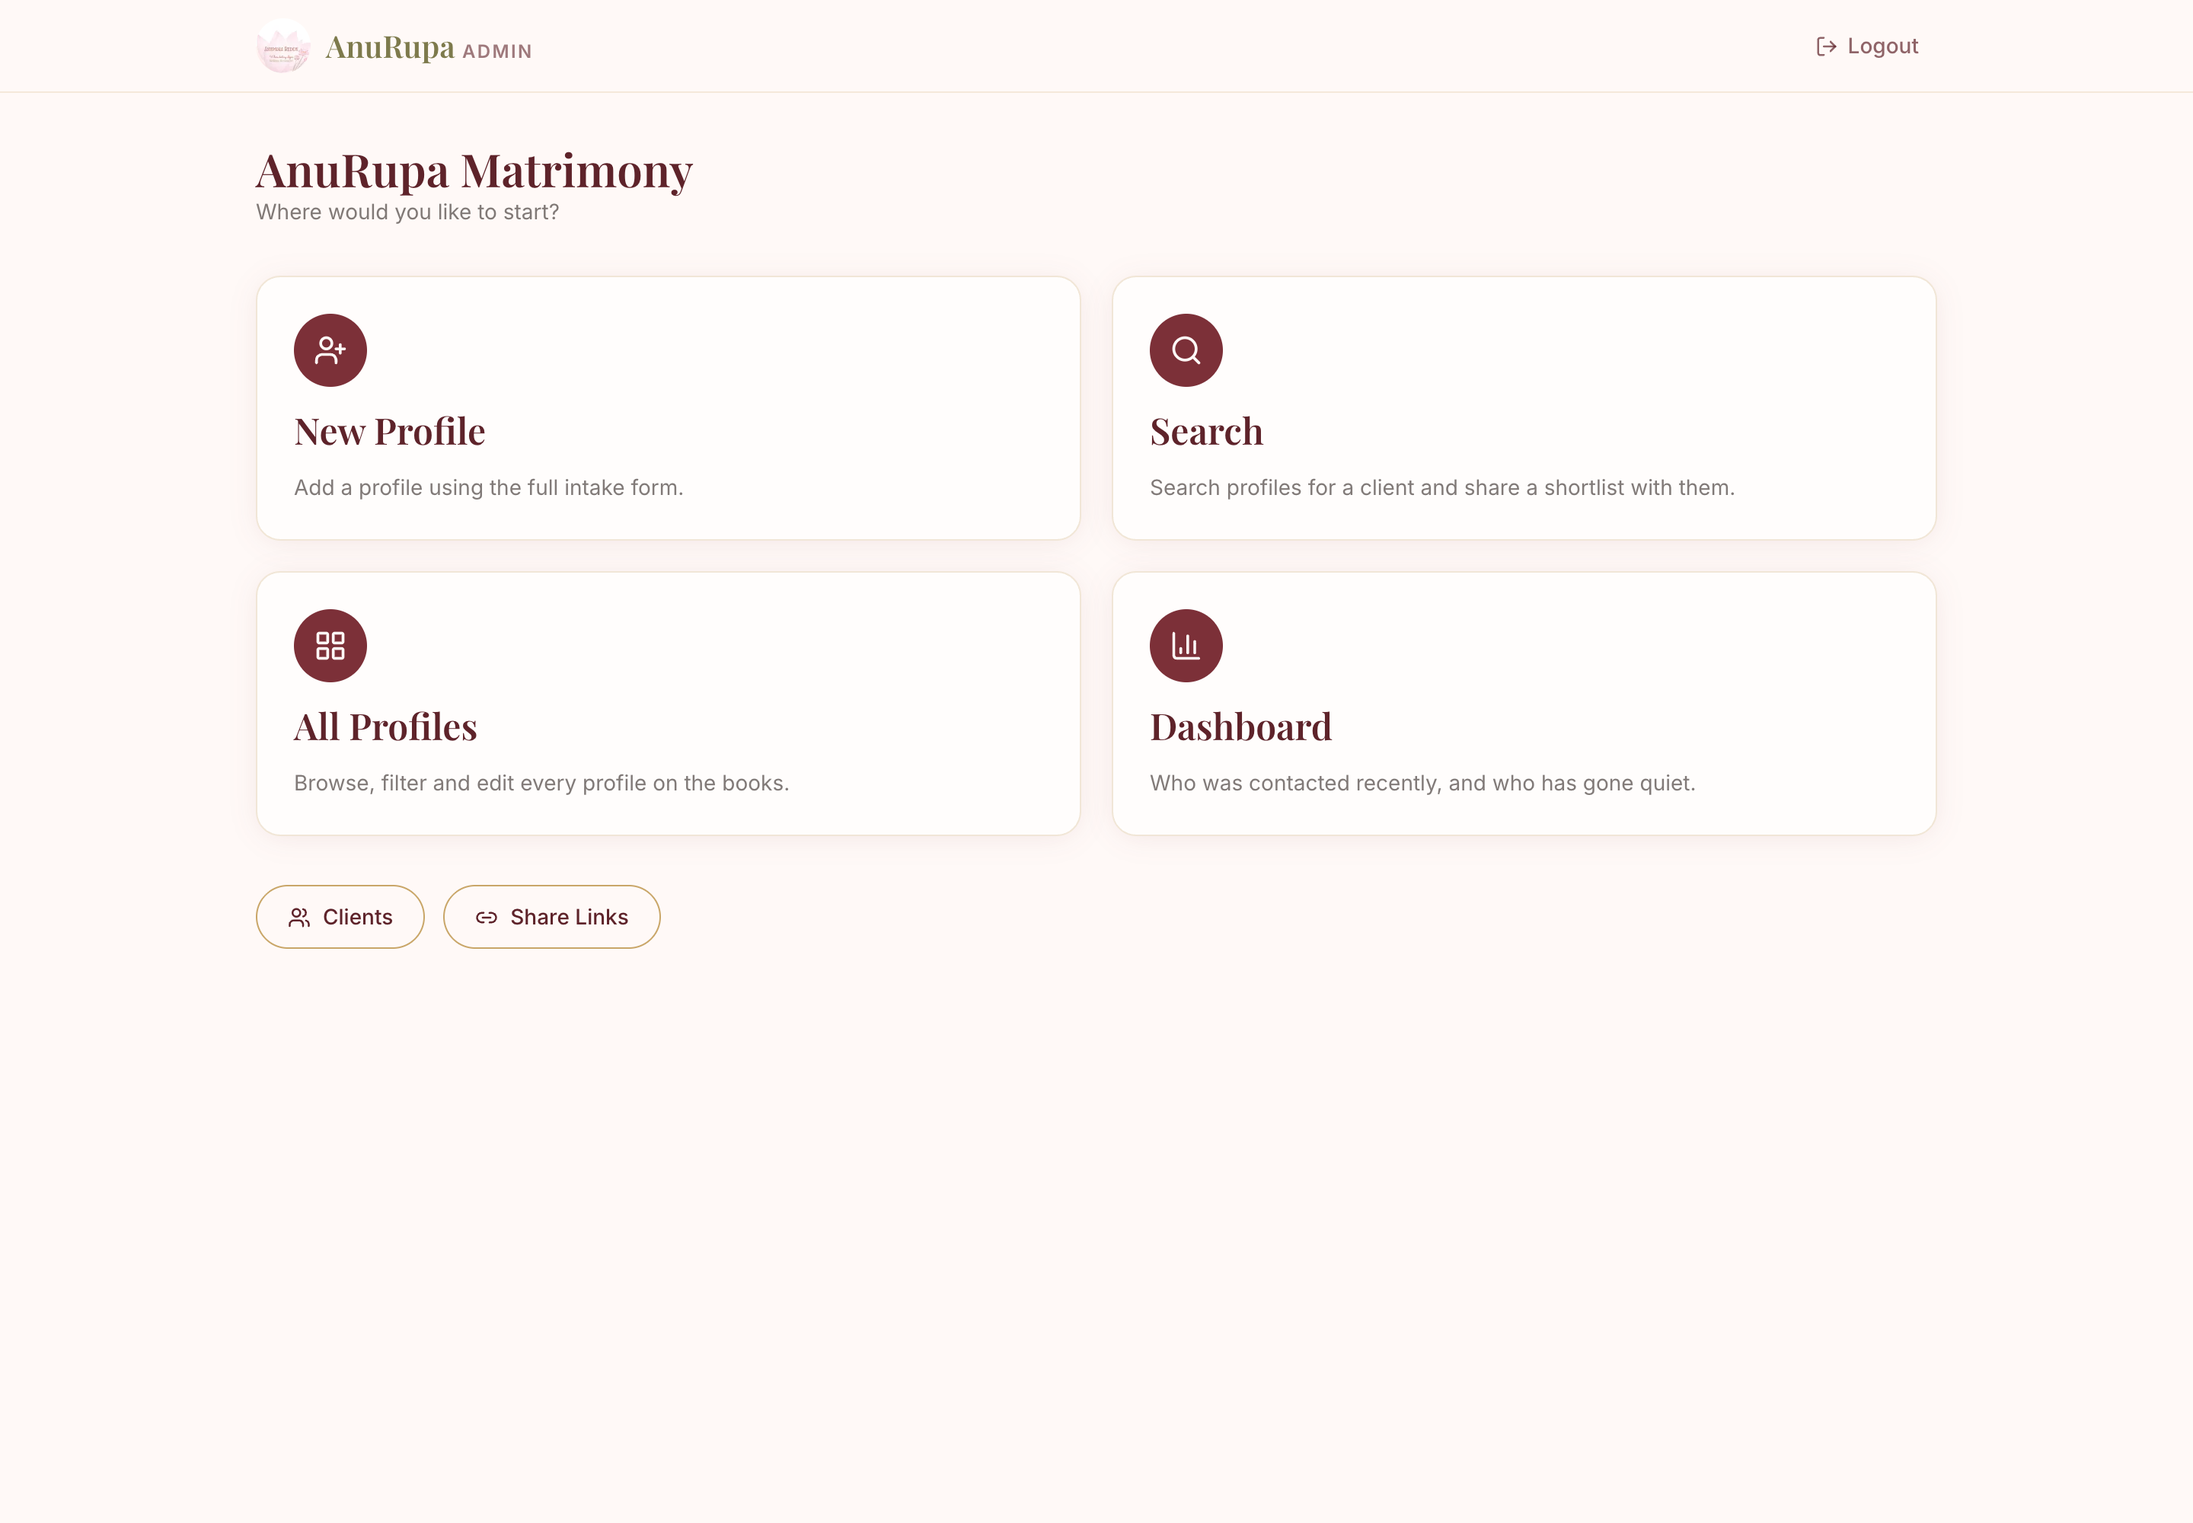
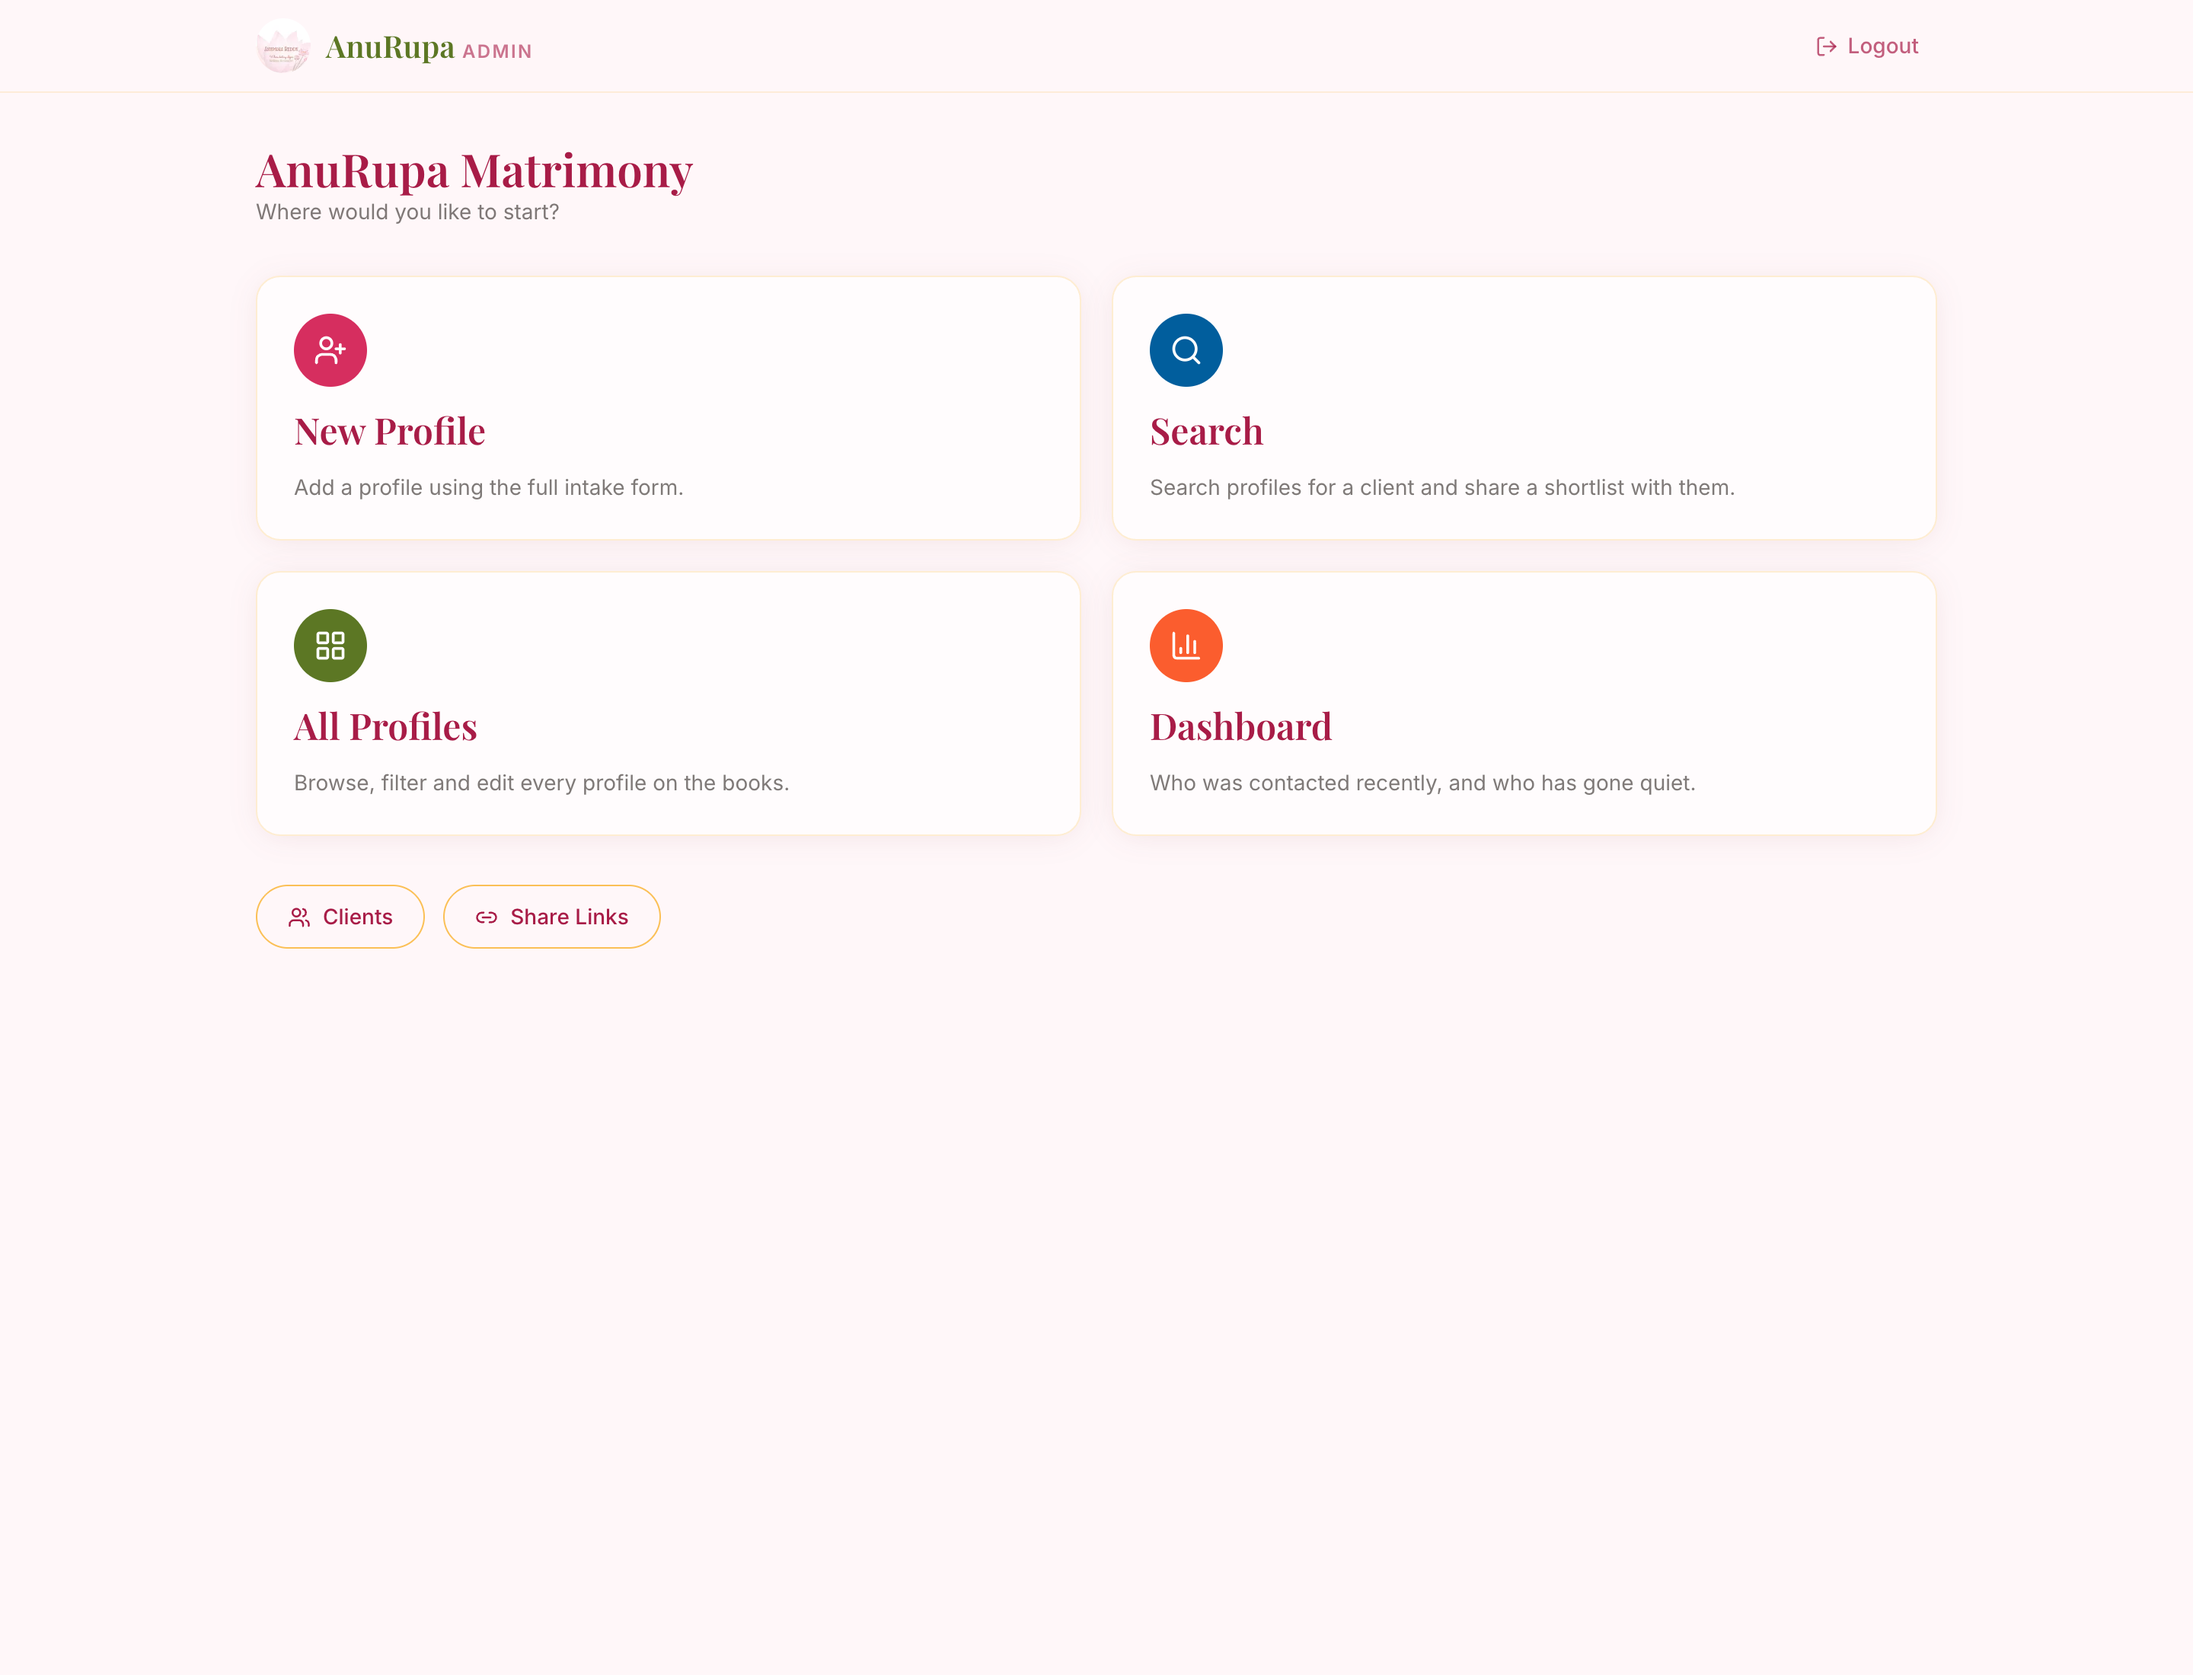
Brighten the theme to the tropical hibiscus palette
The old blush/maroon scheme read as washed out. Every component already
reads its colour from a CSS variable, so the whole theme moves by
re-pointing the tokens — no component markup changed.

Rose, gold and green keep their roles but at full saturation, and the
palette's orange and blue join as accents. The four home sections now
carry a colour each instead of four identical circles.

Text shades are picked for contrast rather than taken straight from the
palette: headings land at 6.8:1 on the background, and gold-500 moved
to a dark amber because the palette's gold sat at 2.5:1 as text — the
previous theme had the same problem.

diff --git a/src/app/globals.css b/src/app/globals.css
@@ -1,20 +1,26 @@
 @import "tailwindcss";
 
 :root {
-  /* Aura brand palette, drawn from the lotus logo */
-  --color-blush-50: #fff9f7;
-  --color-blush-100: #fdf0ec;
-  --color-blush-200: #fadfd8;
-  --color-blush-300: #f4c6ba;
-  --color-rose-400: #eca9b8;
-  --color-maroon-600: #7c3038;
-  --color-maroon-700: #5e232a;
-  --color-maroon-800: #401920;
-  --color-olive-500: #7d7a4c;
-  --color-olive-600: #625f3a;
-  --color-gold-400: #c9a668;
-  --color-gold-500: #b8905a;
-  --color-ink-900: #2c2320;
+  /* Tropical hibiscus palette. Same token names as before, saturated values —
+     every component reads these, so the theme changes in one place.
+     Text shades are picked to clear 4.5:1 on the light background. */
+  --color-blush-50: #fff7f9;
+  --color-blush-100: #ffe8ee;
+  --color-blush-200: #ffd0dc;
+  --color-blush-300: #faa8bc;
+  --color-rose-400: #e65a7f;
+  --color-maroon-600: #d62e5f;
+  --color-maroon-700: #a81c47;
+  --color-maroon-800: #7a1233;
+  --color-olive-500: #5c7724;
+  --color-olive-600: #4e6520;
+  /* gold-400 fills and borders; gold-500 is the darker shade used for text. */
+  --color-gold-400: #fbc056;
+  --color-gold-500: #9a6508;
+  --color-orange-500: #fb5d2e;
+  --color-blue-400: #0091e0;
+  --color-blue-600: #015e9d;
+  --color-ink-900: #2a2320;
 
   --background: var(--color-blush-50);
   --foreground: var(--color-ink-900);
@@ -36,6 +42,9 @@
   --color-olive-600: var(--color-olive-600);
   --color-gold-400: var(--color-gold-400);
   --color-gold-500: var(--color-gold-500);
+  --color-orange-500: var(--color-orange-500);
+  --color-blue-400: var(--color-blue-400);
+  --color-blue-600: var(--color-blue-600);
   --color-ink-900: var(--color-ink-900);
 
   --font-sans: var(--font-body);

diff --git a/src/app/admin/(protected)/page.tsx b/src/app/admin/(protected)/page.tsx
@@ -8,24 +8,28 @@ const SECTIONS = [
     title: "New Profile",
     description: "Add a profile using the full intake form.",
     Icon: UserPlus,
+    accent: "bg-maroon-600",
   },
   {
     href: "/admin/search",
     title: "Search",
     description: "Search profiles for a client and share a shortlist with them.",
     Icon: Search,
+    accent: "bg-blue-600",
   },
   {
     href: "/admin/profiles",
     title: "All Profiles",
     description: "Browse, filter and edit every profile on the books.",
     Icon: LayoutGrid,
+    accent: "bg-olive-500",
   },
   {
     href: "/admin/analytics",
     title: "Dashboard",
     description: "Who was contacted recently, and who has gone quiet.",
     Icon: BarChart3,
+    accent: "bg-orange-500",
   },
 ];
 
@@ -43,10 +47,10 @@ export default function AdminHomePage() {
       </div>
 
       <div className="grid gap-5 sm:grid-cols-2">
-        {SECTIONS.map(({ href, title, description, Icon }) => (
+        {SECTIONS.map(({ href, title, description, Icon, accent }) => (
           <Link key={href} href={href}>
             <Card className="flex h-full flex-col gap-3 p-6 transition-transform hover:-translate-y-0.5">
-              <span className="flex h-12 w-12 items-center justify-center rounded-full bg-maroon-600 text-blush-50">
+              <span className={`flex h-12 w-12 items-center justify-center rounded-full text-white ${accent}`}>
                 <Icon size={22} />
               </span>
               <h2 className="font-serif text-2xl font-semibold text-maroon-700">{title}</h2>
